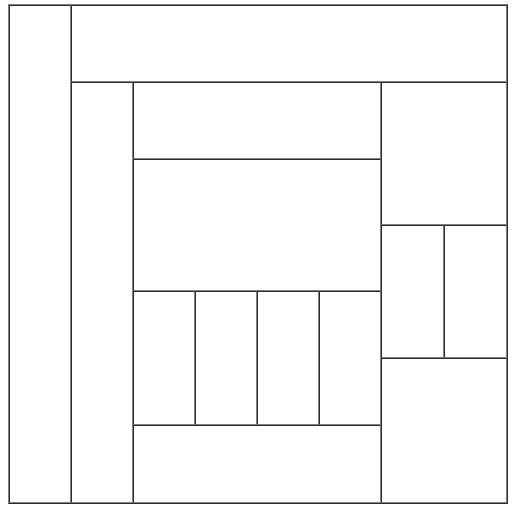
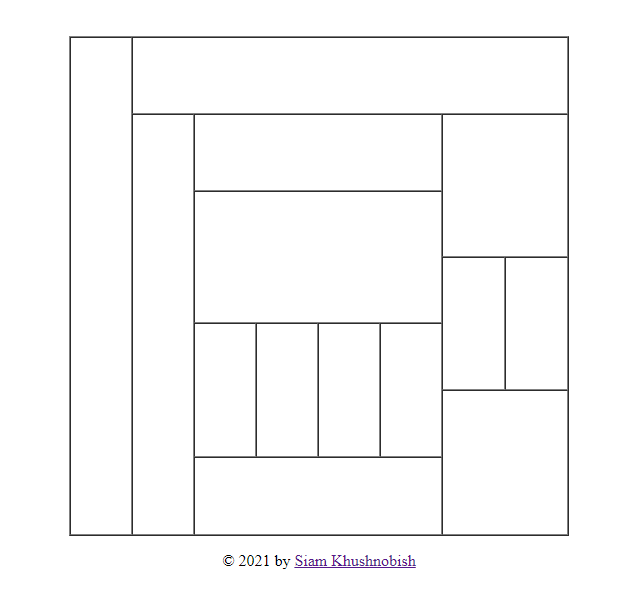
OutPut Image

Changed region(s): [[0.0, 0.0, 0.9642, 0.9846]]

diff --git a/index.html b/index.html
@@ -7,7 +7,7 @@
     <title>Html Css Table Task</title>
 </head>
 
-<body>
+<body style="margin-top:10rem;">
     <table border="1" width="500px" height="500px" cellpadding="10" cellspacing="0" style="margin: 0 auto;">
         <tr>
             <td rowspan="7"></td>
